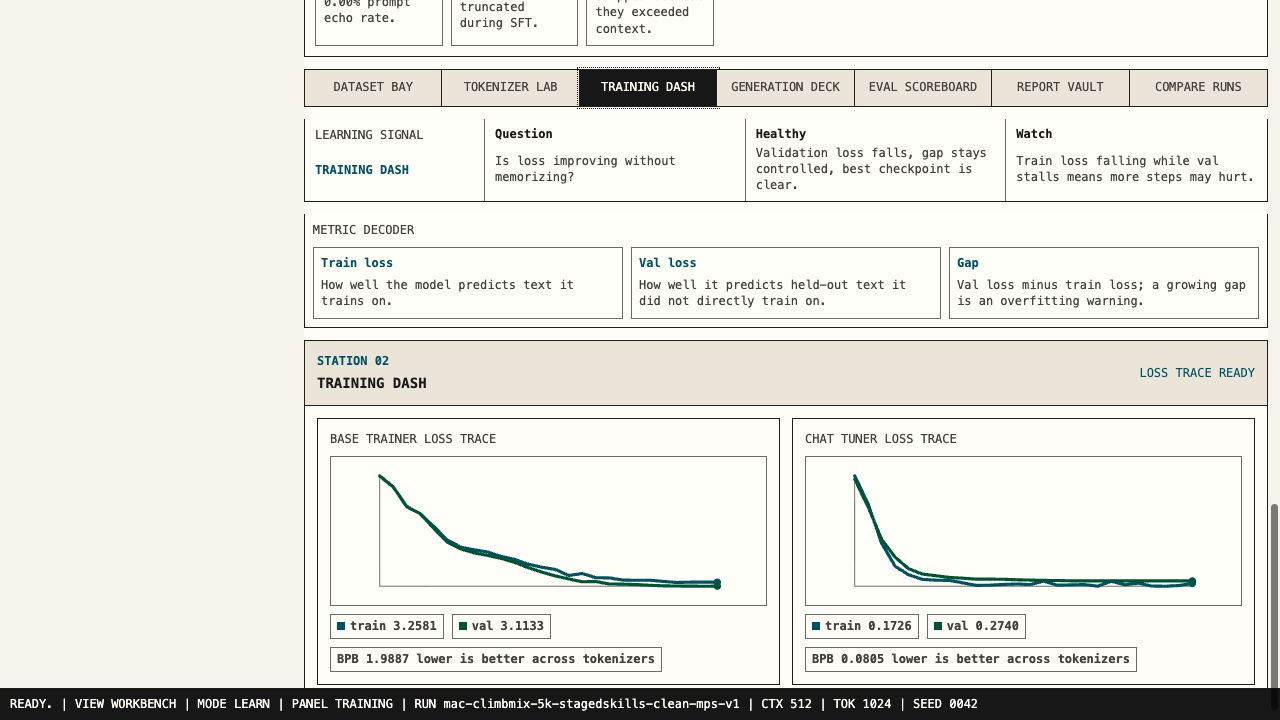
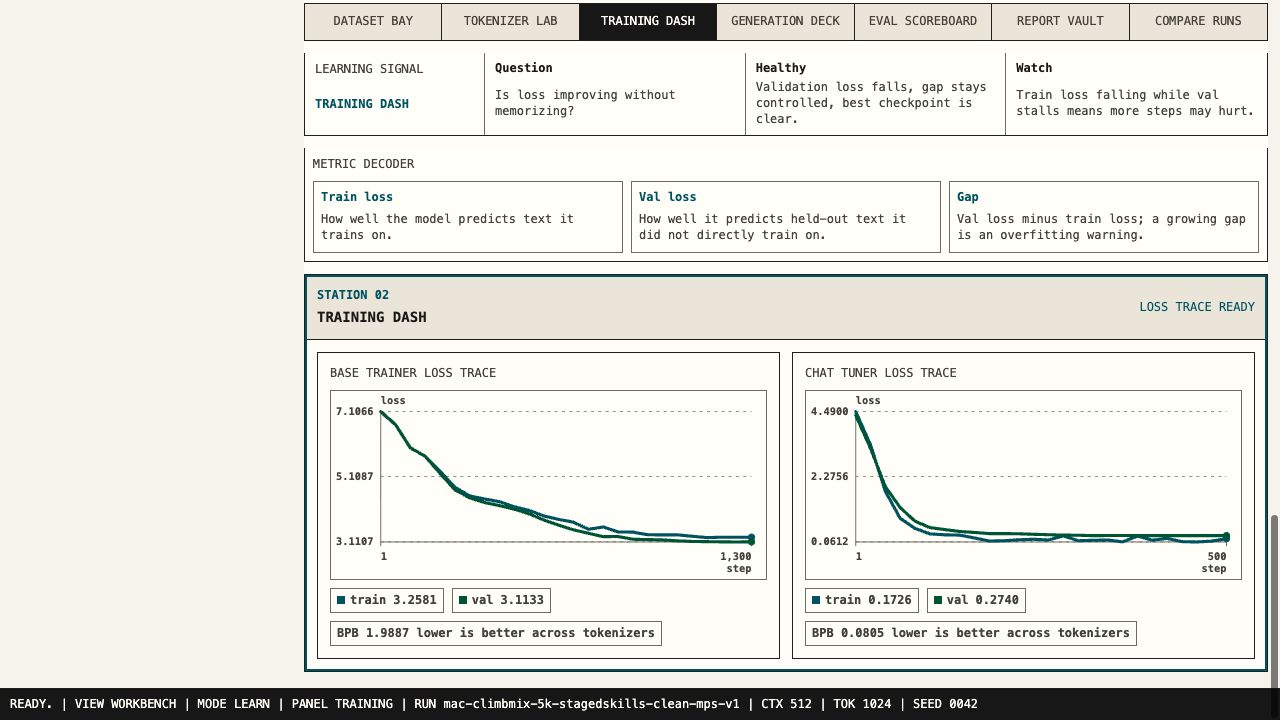
Clarify license and loss chart axes

Changed region(s): [[0.2188, 0.0, 1.0, 0.9472], [0.25, 0.7028, 0.375, 0.7639], [0.9688, 0.7028, 1.0, 0.7333]]

diff --git a/src/picochat/web_assets/app.js b/src/picochat/web_assets/app.js
@@ -6157,20 +6157,42 @@ function lossTraceChart(losses) {
   const vals = losses.flatMap((row) => [row.train_loss, row.val_loss]);
   const min = Math.min(...vals);
   const max = Math.max(...vals);
-  const width = 360;
-  const height = 142;
-  const pad = 18;
-  const xFor = (index) => pad + (losses.length <= 1 ? 0 : (index / (losses.length - 1)) * (width - pad * 2));
+  const width = 420;
+  const height = 178;
+  const pad = { left: 48, right: 14, top: 18, bottom: 34 };
+  const plotWidth = width - pad.left - pad.right;
+  const plotHeight = height - pad.top - pad.bottom;
+  const xFor = (index) => pad.left + (losses.length <= 1 ? 0 : (index / (losses.length - 1)) * plotWidth);
   const yFor = (value) => {
     const spread = Math.max(0.0001, max - min);
-    return height - pad - ((Number(value) - min) / spread) * (height - pad * 2);
+    return height - pad.bottom - ((Number(value) - min) / spread) * plotHeight;
   };
   const points = (key) => losses.map((row, index) => `${xFor(index).toFixed(1)},${yFor(row[key]).toFixed(1)}`).join(" ");
   const last = losses.at(-1);
+  const first = losses[0];
+  const stepLabel = (row, fallback) => fmtInt(row?.step ?? fallback);
+  const yTicks = [max, (min + max) / 2, min];
+  const xTicks = [
+    { label: stepLabel(first, 1), x: xFor(0), anchor: "start" },
+    { label: stepLabel(last, losses.length), x: xFor(losses.length - 1), anchor: "end" },
+  ];
   return `
     <svg viewBox="0 0 ${width} ${height}" role="img" aria-label="Training loss chart">
-      <line x1="${pad}" y1="${height - pad}" x2="${width - pad}" y2="${height - pad}" class="loss-axis"></line>
-      <line x1="${pad}" y1="${pad}" x2="${pad}" y2="${height - pad}" class="loss-axis"></line>
+      <text x="${pad.left}" y="11" class="loss-axis-label">loss</text>
+      <text x="${width - pad.right}" y="${height - 5}" text-anchor="end" class="loss-axis-label">step</text>
+      ${yTicks.map((value) => {
+        const y = yFor(value);
+        return `
+          <line x1="${pad.left}" y1="${y.toFixed(1)}" x2="${width - pad.right}" y2="${y.toFixed(1)}" class="loss-grid"></line>
+          <text x="${pad.left - 7}" y="${(y + 3).toFixed(1)}" text-anchor="end" class="loss-tick-label">${fmtLoss(value)}</text>
+        `;
+      }).join("")}
+      ${xTicks.map((tick) => `
+        <line x1="${tick.x.toFixed(1)}" y1="${height - pad.bottom}" x2="${tick.x.toFixed(1)}" y2="${height - pad.bottom + 4}" class="loss-axis"></line>
+        <text x="${tick.x.toFixed(1)}" y="${height - 17}" text-anchor="${tick.anchor}" class="loss-tick-label">${tick.label}</text>
+      `).join("")}
+      <line x1="${pad.left}" y1="${height - pad.bottom}" x2="${width - pad.right}" y2="${height - pad.bottom}" class="loss-axis"></line>
+      <line x1="${pad.left}" y1="${pad.top}" x2="${pad.left}" y2="${height - pad.bottom}" class="loss-axis"></line>
       <polyline points="${points("train_loss")}" class="loss-line train"></polyline>
       <polyline points="${points("val_loss")}" class="loss-line val"></polyline>
       <circle cx="${xFor(losses.length - 1).toFixed(1)}" cy="${yFor(last.train_loss).toFixed(1)}" r="3" class="loss-dot train"></circle>

diff --git a/src/picochat/web_assets/style.css b/src/picochat/web_assets/style.css
@@ -1268,13 +1268,27 @@ textarea.guide-target-focus {
 .loss-chart svg {
   background: var(--field);
   border: 1px solid var(--dim-line);
-  height: 150px;
+  height: 190px;
   width: 100%;
 }
 
 .loss-axis {
   stroke: var(--dim-line);
   stroke-width: 1;
+}
+
+.loss-grid {
+  stroke: var(--dim-line);
+  stroke-dasharray: 3 4;
+  stroke-width: 0.75;
+}
+
+.loss-axis-label,
+.loss-tick-label {
+  fill: var(--muted);
+  font-family: inherit;
+  font-size: 10px;
+  font-weight: 700;
 }
 
 .loss-line {

diff --git a/tests/test_web.py b/tests/test_web.py
@@ -105,9 +105,12 @@ def test_web_ui_exposes_release_readiness_and_preflight_dry_run_controls():
     assert "RELEASE READINESS" in js
     assert "requiresGpuLaunchConfirmation" in js
     assert "Confirm paid GPU launch" in js
+    assert "loss-axis-label" in js
+    assert "loss-tick-label" in js
     assert "lower is better across tokenizers" in js
     assert ".release-grid" in css
     assert ".loss-chart" in css
+    assert ".loss-grid" in css
 
 
 def write_run(root, name):
